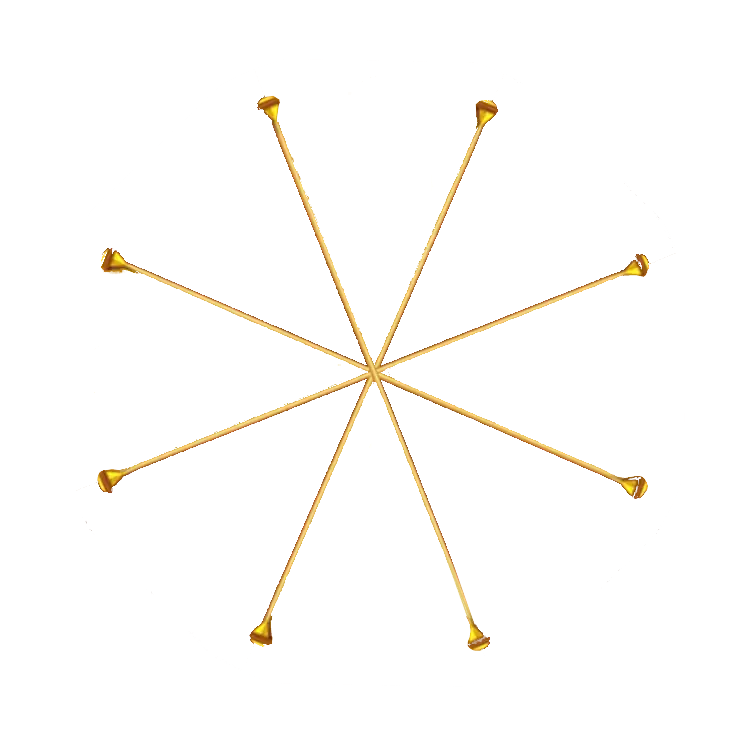
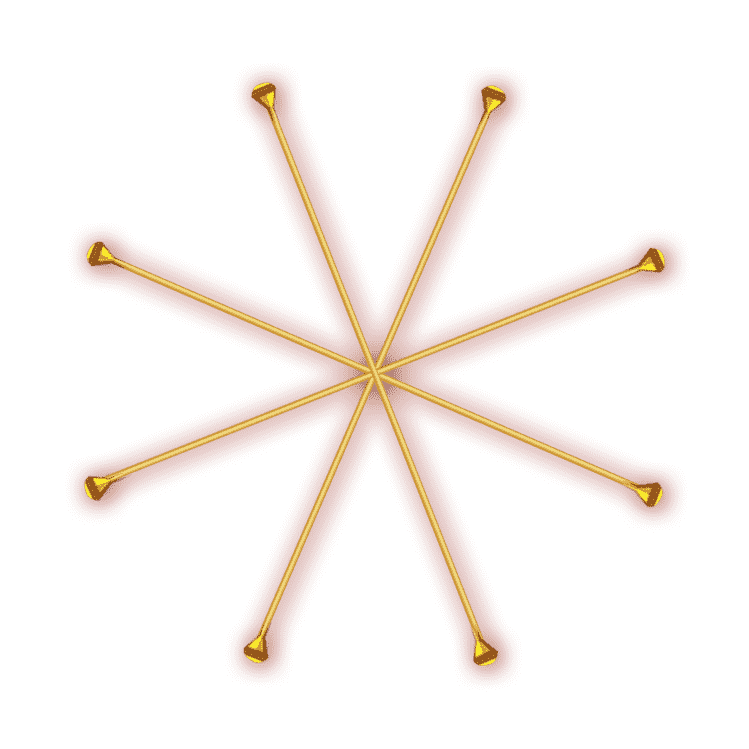
adda wheel animation

Changed region(s): [[0.0921, 0.0921, 0.9212, 0.9212]]

diff --git a/assets/js/wheel-animations.js b/assets/js/wheel-animations.js
@@ -1,4 +1,5 @@
 import { gsap } from 'gsap';
+import { createBrightnessAnimation } from './character-animations.js';
 
 export class WheelAnimations {
     
@@ -128,6 +129,13 @@ export class WheelAnimations {
             opacity: 1,
             ease: "bounce.out"
         }, 0);
+        
+        // Start continuous brightness animations after entrance
+        tl.call(() => {
+            this.part2GoldFlash();
+            this.part3_1GoldFlash();
+            this.part6GoldFlash();
+        }, [], 1.2);
         
         return tl;
     }
@@ -298,8 +306,53 @@ export class WheelAnimations {
 
     static showPart4() {
         const part4 = document.querySelector('.wheel-part4');
-        if (part4) {
-            part4.classList.add('show');
-        }
+        if (!part4) return;
+
+        // GSAP timeline for part4 celebration animation
+        const tl = gsap.timeline();
+        
+        // Flicker show animation
+        tl.set(part4, { opacity: 0 })
+          .to(part4, { opacity: 1, duration: 0.1 })
+          .to(part4, { opacity: 0, duration: 0.1 })
+          .to(part4, { opacity: 1, duration: 0.1 })
+          .to(part4, { opacity: 0, duration: 0.1 })
+          .to(part4, { opacity: 1, duration: 0.1 })
+          .to(part4, { opacity: 0, duration: 0.1 })
+          .to(part4, { opacity: 1, duration: 0.1 })
+          .to(part4, { opacity: 0, duration: 0.1 })
+          .to(part4, { opacity: 1, duration: 0.1 })
+          .to(part4, { opacity: 1, duration: 0.1 });
+          
+        // Brightness pulse animation (starts after flicker)
+        tl.to(part4, {
+            filter: 'brightness(1.8)',
+            duration: 0.08,
+            repeat: 10,
+            yoyo: true,
+            ease: 'power2.inOut'
+        }, 1);
+        
+        // Fade out (starts after 1 second)
+        tl.to(part4, {
+            opacity: 0,
+            duration: 2,
+            ease: 'power2.out'
+        }, 1);
+    }
+
+    static part2GoldFlash() {
+        // Use existing brightness animation function for wheel-part2 - stronger and faster
+        createBrightnessAnimation('.wheel-part2 img', 1.5, 0.5, 'sine.inOut');
+    }
+
+    static part3_1GoldFlash() {
+        // Use existing brightness animation function for wheel-part3-1 - same settings as part2
+        createBrightnessAnimation('.wheel-part3-1 img', 1.5, 0.5, 'sine.inOut');
+    }
+
+    static part6GoldFlash() {
+        // Use existing brightness animation function for wheel-part6 - same settings as part2
+        createBrightnessAnimation('.wheel-part6 img', 1.5, 0.5, 'sine.inOut');
     }
 }

diff --git a/assets/css/wheel.css b/assets/css/wheel.css
@@ -37,6 +37,7 @@
   left: 4% !important;
 }
 
+
 .wheel-part4 {
   position: absolute;
   top: 50%;
@@ -64,6 +65,10 @@
   z-index: 10;
   width: 15%;
   aspect-ratio: 1 / 1;
+}
+
+.wheel-part4 {
+  opacity: 0;
 }
 
 .wheel-part4 img {
